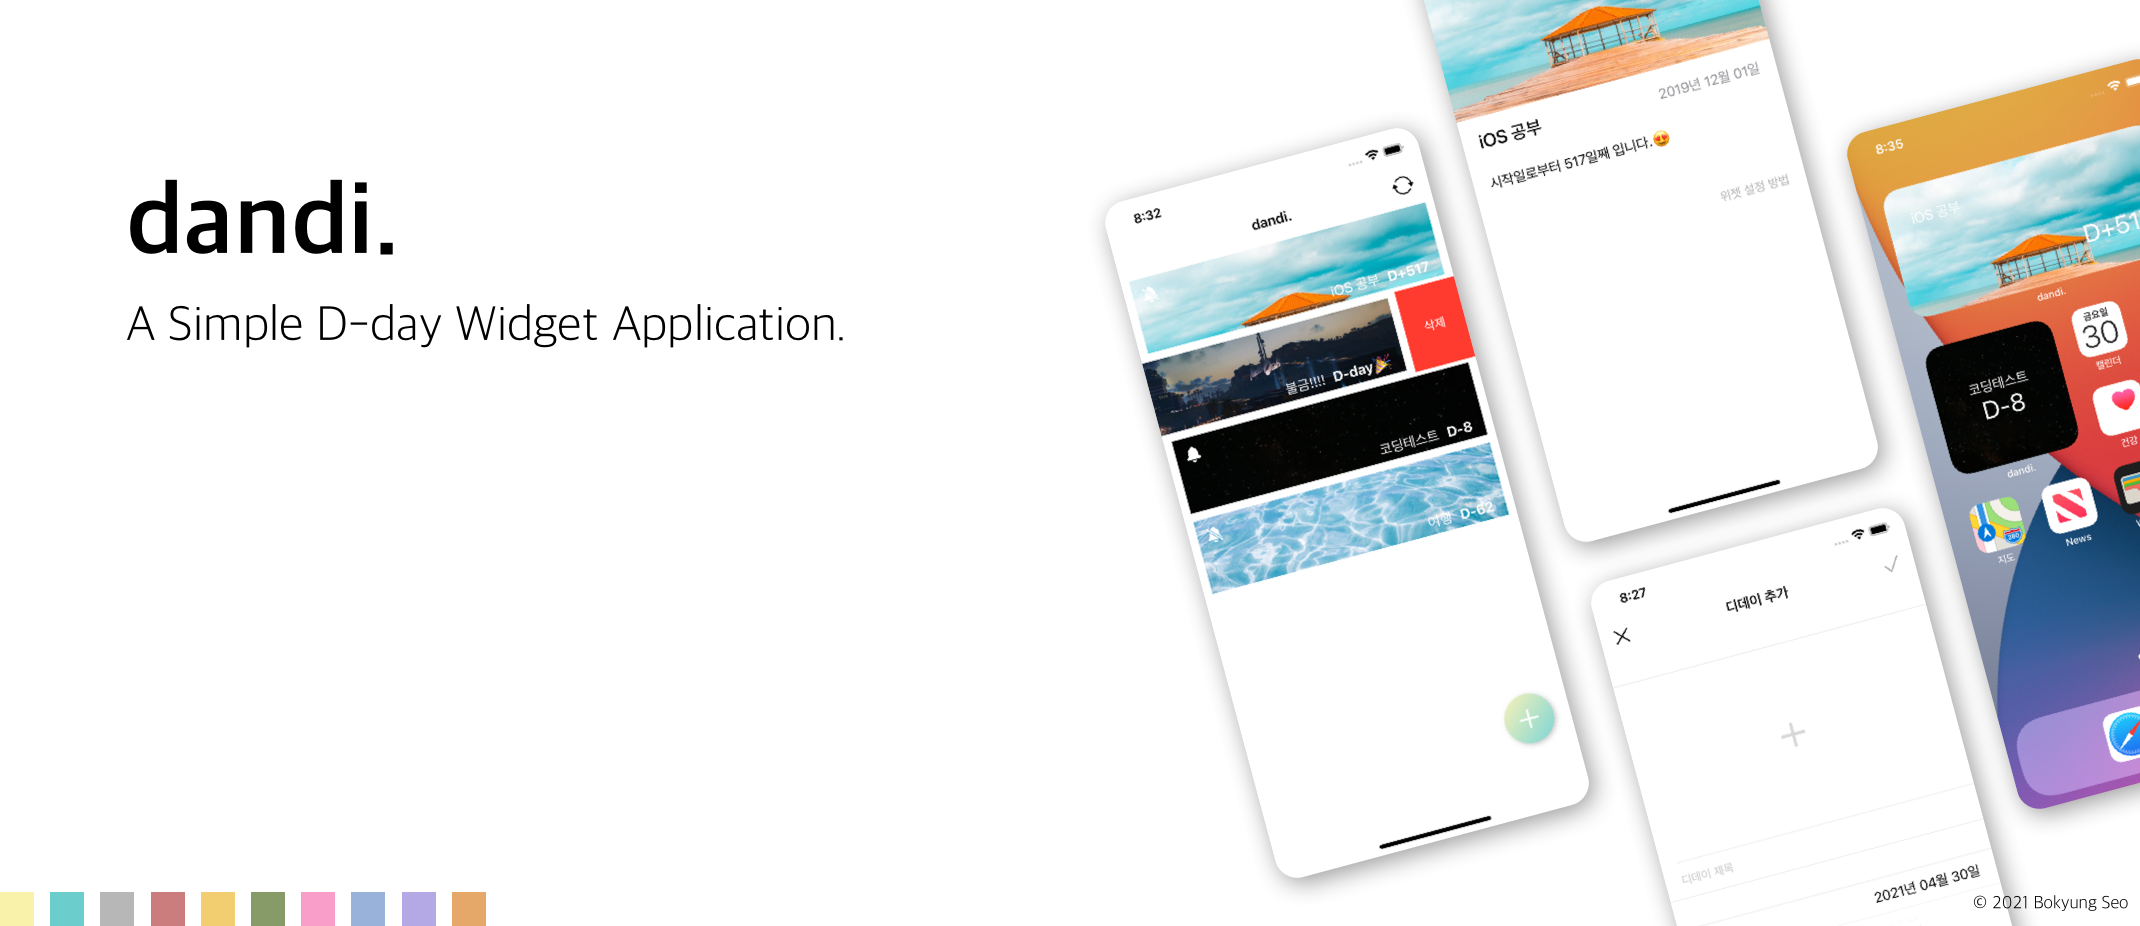
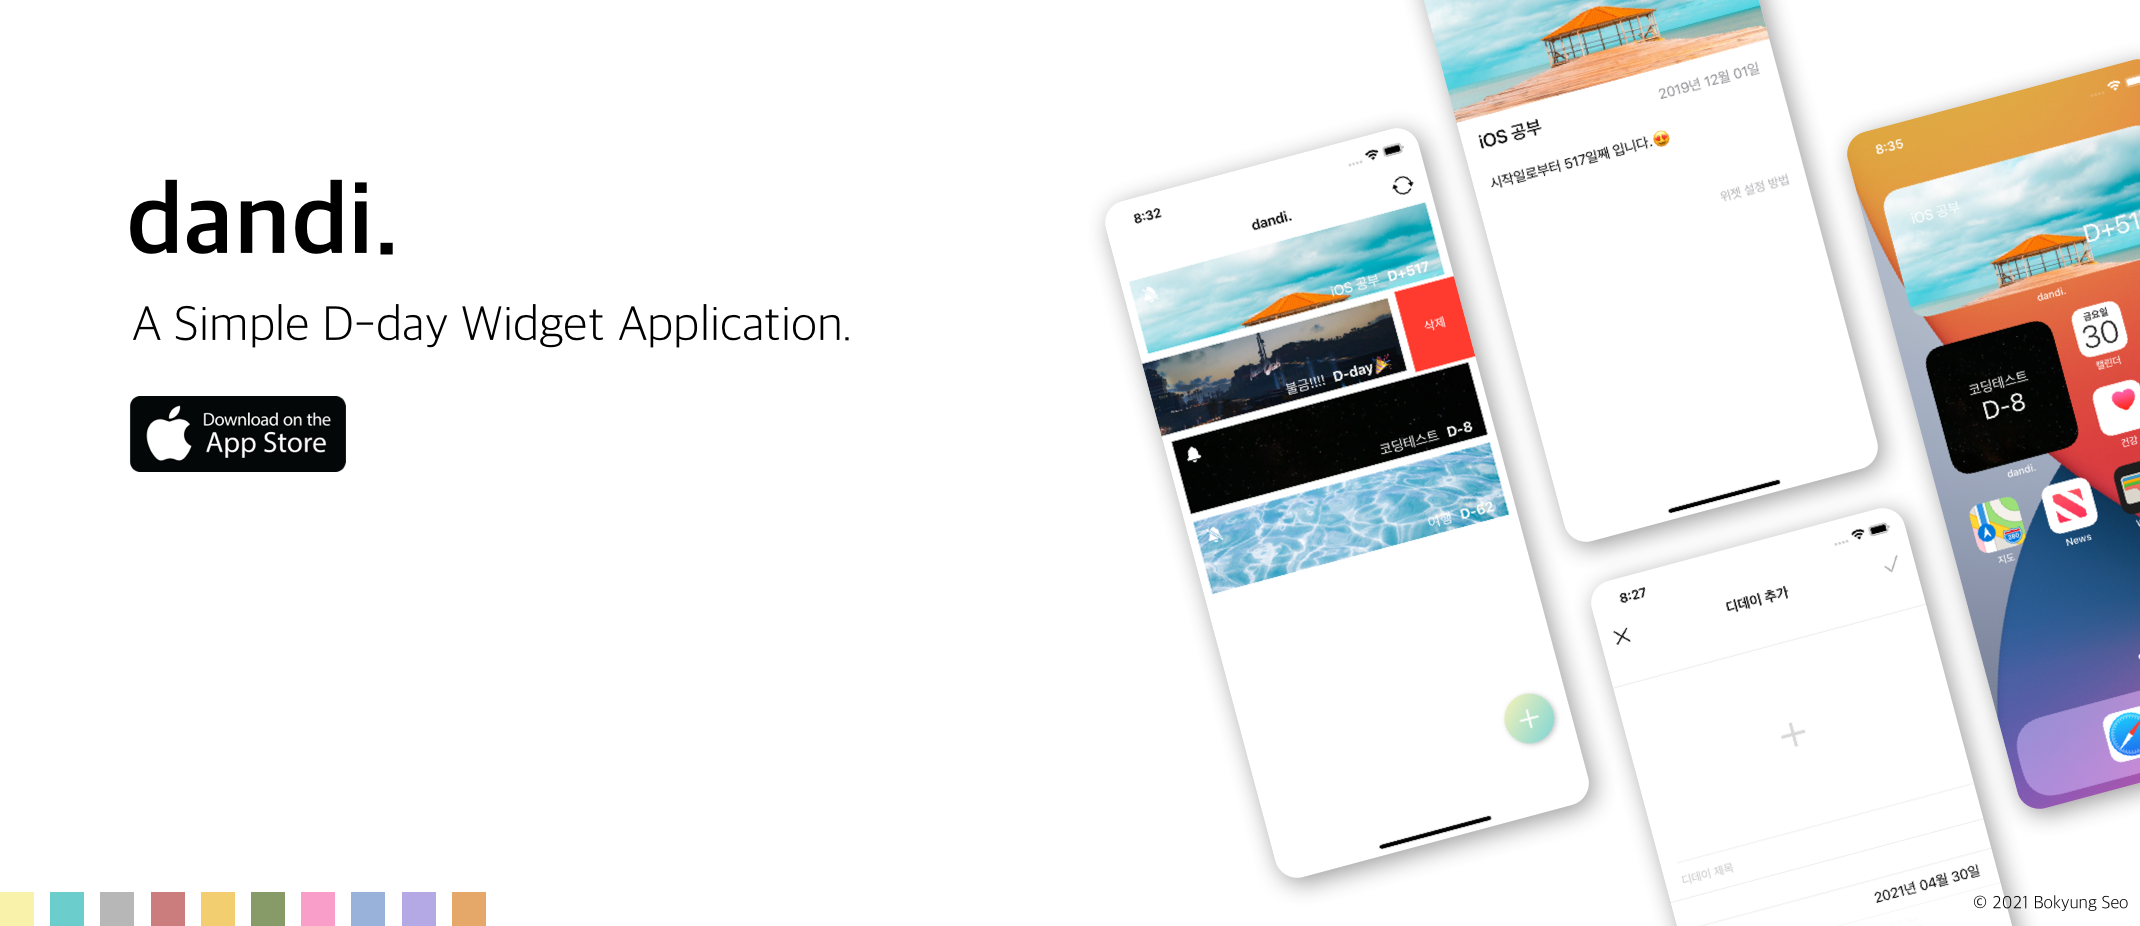
Update README.md

Changed region(s): [[0.0617, 0.3326, 0.4009, 0.3931], [0.0617, 0.4233, 0.185, 0.514]]

diff --git a/README.md b/README.md
@@ -1,19 +1,14 @@
 # Dandi.
 
 <div style="text-align: center;">
-	<img src="./images/dandi_main.png" width="100%">
+        <a href="https://apps.apple.com/kr/app/dandi-%EB%94%94%EB%8D%B0%EC%9D%B4-%EA%B4%80%EB%A6%AC/id1565728718">
+                <img src="./images/dandi_main.png" width="100%">
+        </a>
 </div>
 <br>
 
 단디(dandi) 챙겨! 사용하기 쉬운 디데이 위젯 어플 'dandi.'입니다😊<br>
-앱스토어에서 이용 가능합니다.🥳
-
-<br>
-<div>
-	<a href="https://apps.apple.com/kr/app/dandi-%EB%94%94%EB%8D%B0%EC%9D%B4-%EA%B4%80%EB%A6%AC/id1565728718">
-		<img src="./images/appstore_available.png" width="20%">
-	</a>
-</div>
+메인 이미지를 클릭하여 앱스토어 다운로드 페이지로 이동하실 수 있습니다.🥳
 <br>
 <br>
 
